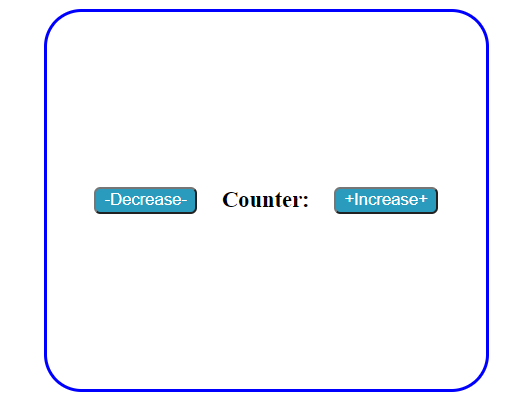
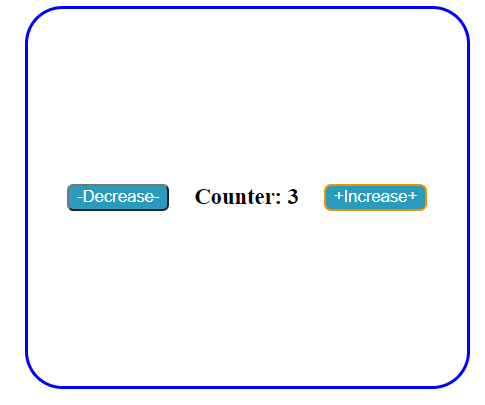
replace png file

Changed region(s): [[0.0309, 0.0, 0.9897, 0.9778], [0.1237, 0.4444, 0.8969, 0.5333]]

diff --git a/counter.html b/counter.html
@@ -37,7 +37,7 @@
 <body>
     <div>
     <button class="btn minus">-Decrease- </button>
-    <p class="counter">Counter: </p>
+    <p class="counter">Counter: 0 </p>
     <button class="btn plus">+Increase+</button>
 </div>
 </body>
